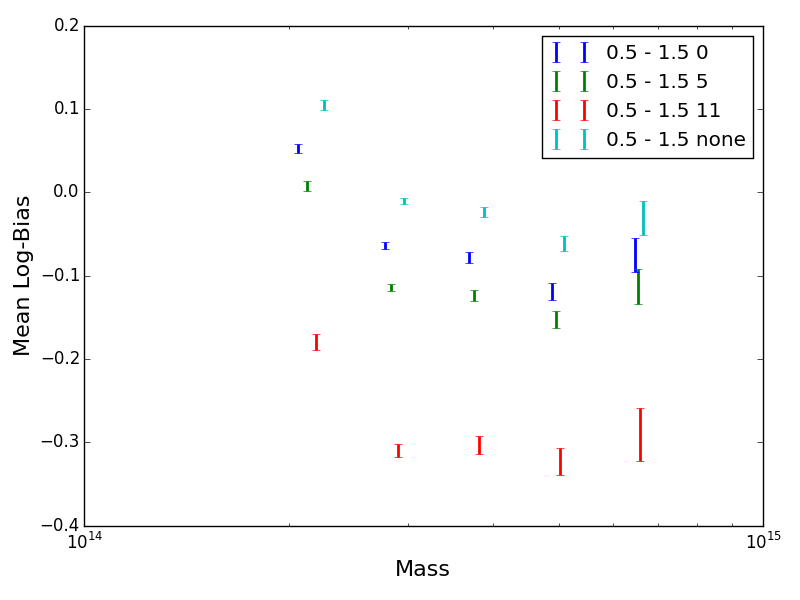
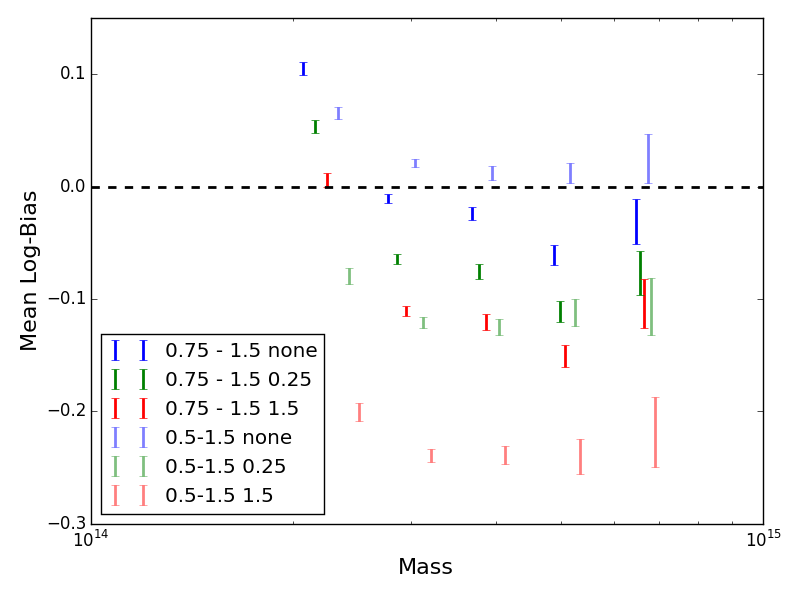
changes, exploring runs in place here

diff --git a/plotsimdistros.py b/plotsimdistros.py
@@ -16,6 +16,20 @@ def bootstrapMean(sample, nboots=1000):
     return bootedmeans
 
 
+############
+
+def bootstrapMedian(sample, nboots=1000):
+
+    nsamples = len(sample)
+
+    bootedmedians = np.zeros(nboots)
+    for i in range(nboots):
+        curboot = np.random.randint(0, nsamples, nsamples)
+        bootedmedians[i] = np.median(sample[curboot])
+
+    return bootedmedians
+
+
 
 
 #############
@@ -60,7 +74,7 @@ def createErrorbars(samples):
 #############
 
 
-def plotLogNormDistro(truemass, measuredmass, massedges, meanax, stdax, offset = 0., **plotargs):
+def plotLogNormDistro(truemass, measuredmass, massedges, meanax, nongaussax, stdax, offset = 0., **plotargs):
 
     log10massedges = np.log10(massedges)
 
@@ -71,6 +85,7 @@ def plotLogNormDistro(truemass, measuredmass, massedges, meanax, stdax, offset =
 
     centers = []
     means = []
+    nongausses = []
     stds = []
     
 
@@ -84,9 +99,13 @@ def plotLogNormDistro(truemass, measuredmass, massedges, meanax, stdax, offset =
 
         centers.append(10**(log10centers[i]))
 
+        if (inbin < 0).any():
+            print 'ILLEGAL'
+
         logratio = np.log(inbin)
 
         means.append(bootstrapMean(logratio))
+        nongausses.append(np.median(logratio) - np.mean(logratio))
         stds.append(bootstrapStd(logratio))
 
     centers = np.array(centers)
@@ -96,7 +115,9 @@ def plotLogNormDistro(truemass, measuredmass, massedges, meanax, stdax, offset =
     meancenter, meanerrs = createErrorbars(means)
     meanax.errorbar(centers + offset, meancenter, meanerrs, **plotargs)
 
-    print meancenter
+    print nongausses
+
+    nongaussax.plot(centers+offset, nongausses, marker='o', **plotargs)
 
 
     stdcenter, stderrs = createErrorbars(stds)
@@ -161,22 +182,27 @@ def plotNoiseMXXL():
 
     meansfig = pylab.figure()
     meansax = meansfig.add_subplot(1,1,1)
+    nongaussfig = pylab.figure()
+    nongaussax = nongaussfig.add_subplot(1,1,1)
     stdsfig = pylab.figure()
     stdsax = stdsfig.add_subplot(1,1,1)
 
     massedges = np.logspace(np.log10(2e14), np.log10(1e15), 7)
     
-    radialranges = [5,9]
+    radialranges = [8]
     radialnames = ['0.5 - 1.5', '0.75 - 2.5']
     noiseranges = ['0_0', '3_2', '4_3']
     noisenames = ['NoNoise', '20-0.33', '7-0.5']
-    offsets = np.linspace(-1.5e13, 1.5e13, 6)
+    offsets = np.linspace(-1.5e13, 1.5e13, 3)
+
+    colors = 'b g r'.split()
+    alphas = [1.0, 0.5]
 
 
     for i, radrange in enumerate(radialranges):
         for j, noiserange in enumerate(noiseranges):
 
-            consolfile = 'run7consolidated/mxxlsnap41.c4-r%d-n%s_corenone.pkl' % (radrange, noiserange)
+            consolfile = '../rundirs/run7consolidated/mxxlsnap41.c4-r%d-n%s_corenone.pkl' % (radrange, noiserange)
             print consolfile
 
             with open(consolfile, 'rb') as input:
@@ -189,11 +215,14 @@ def plotNoiseMXXL():
                                   consol['measured_m500s'],
                                   massedges,
                                   meansax,
+                                  nongaussax,
                                   stdsax,
                                   offset = offsets[3*i+j],
                                   label = '%s %s' % (radialnames[i], noisenames[j]),
                                   linestyle='None',
-                                  linewidth=2.)
+                                  linewidth=2.,
+                                  color = colors[j],
+                                  alpha = alphas[i])
 
     meansax.set_xscale('log')
     meansax.set_xlabel('Mass', fontsize=16)
@@ -203,6 +232,16 @@ def plotNoiseMXXL():
     meansfig.tight_layout()
     meansfig.savefig('noisemxxl_mean.png')
 
+    nongaussax.set_xscale('log')
+    nongaussax.set_xlabel('Mass', fontsize=16)
+    nongaussax.set_ylabel('Median - Mean', fontsize=16)
+    nongaussax.axhline(0.0, c='k', linewidth=2, linestyle='--')
+    nongaussax.legend(loc='upper left')
+    nongaussfig.canvas.draw()
+    nongaussfig.tight_layout()
+    nongaussfig.savefig('noisemxxl_nongauss.png')
+
+
     stdsax.set_xscale('log')
     stdsax.set_xlabel('Mass', fontsize=16)
     stdsax.set_ylabel('Standard Deviation Log-Bias', fontsize=16)
@@ -211,7 +250,7 @@ def plotNoiseMXXL():
     stdsfig.tight_layout()
     stdsfig.savefig('noisemxxl_std.png')
 
-    return meansfig, stdsfig
+    return meansfig, nongaussfig, stdsfig
 
 
 
@@ -222,21 +261,27 @@ def plotCoreMXXL():
 
     meansfig = pylab.figure()
     meansax = meansfig.add_subplot(1,1,1)
+    nongaussfig = pylab.figure()
+    nongaussax = nongaussfig.add_subplot(1,1,1)
     stdsfig = pylab.figure()
     stdsax = stdsfig.add_subplot(1,1,1)
 
     massedges = np.logspace(np.log10(2e14), np.log10(1e15), 7)
     
-    radialranges = [9]
-    radialnames = ['0.75 - 2.5']
-    coreranges = ['0', '5', '11', 'none']
-    offsets = np.linspace(-2.2e13, 2.2e13, 8)
+    radialranges = [8, 5]
+    radialnames = ['0.75 - 1.5', '0.5-1.5']
+    coreranges = ['none', '0', '5']
+    corenames = ['none', '0.25', '1.5']
+    offsets = np.linspace(-2.2e13, 2.2e13, 6)
+
+    colors = ['b', 'g', 'r']
+    alphas = [1.0, 0.5]
 
 
     for i, radrange in enumerate(radialranges):
         for j, corerange in enumerate(coreranges):
 
-            consolfile = 'run7consolidated/mxxlsnap41.c4-r%d-n0_0_core%s.pkl' % (radrange, corerange)
+            consolfile = '../rundirs/run7consolidated/mxxlsnap41.c4-r%d-n4_3_core%s.pkl' % (radrange, corerange)
             print consolfile
 
             with open(consolfile, 'rb') as input:
@@ -249,11 +294,179 @@ def plotCoreMXXL():
                                   consol['measured_m500s'],
                                   massedges,
                                   meansax,
+                                  nongaussax,
                                   stdsax,
-                                  offset = offsets[4*i+j],
-                                  label = '%s %s' % (radialnames[i], corerange),
+                                  offset = offsets[3*i+j],
+                                  label = '%s %s' % (radialnames[i], corenames[j]),
                                   linestyle='None',
-                                  linewidth=2.)
+                                  linewidth=2.,
+                                  color=colors[j],
+                                  alpha = alphas[i])
+
+    meansax.set_xscale('log')
+    meansax.set_xlabel('Mass', fontsize=16)
+    meansax.set_ylabel('Mean Log-Bias', fontsize=16)
+    meansax.axhline(0.0, c='k', linewidth=2, linestyle='--')
+    meansax.legend(loc='lower left')
+    meansfig.canvas.draw()
+    meansfig.tight_layout()
+    meansfig.savefig('coremxxl_mean.png')
+
+    nongaussax.set_xscale('log')
+    nongaussax.set_xlabel('Mass', fontsize=16)
+    nongaussax.set_ylabel('Median - Mean', fontsize=16)
+    nongaussax.axhline(0.0, c='k', linewidth=2, linestyle='--')
+    nongaussax.legend(loc='upper left')
+    nongaussfig.canvas.draw()
+    nongaussfig.tight_layout()
+    nongaussfig.savefig('coremxxl_nongauss.png')
+
+
+
+    stdsax.set_xscale('log')
+    stdsax.set_xlabel('Mass', fontsize=16)
+    stdsax.set_ylabel('Standard Deviation Log-Bias', fontsize=16)
+    stdsax.set_ybound(0.15, 0.32)
+    stdsax.legend(loc='lower left')
+    stdsfig.canvas.draw()
+    stdsfig.tight_layout()
+    stdsfig.savefig('coremxxl_std.png')
+
+
+    return meansfig, nongaussfig, stdsfig
+
+
+#######################################
+
+
+def plotCoreBK11():
+
+    meansfig = pylab.figure()
+    meansax = meansfig.add_subplot(1,1,1)
+    nongaussfig = pylab.figure()
+    nongaussax = nongaussfig.add_subplot(1,1,1)
+    stdsfig = pylab.figure()
+    stdsax = stdsfig.add_subplot(1,1,1)
+
+    massedges = np.logspace(np.log10(1e14), np.log10(1e15), 6)
+    
+    radialranges = [9,6 ]
+    radialnames = ['0.75 - 2.5', '0.5 - 2.5']
+    coreranges = ['none', '0', '5']
+    corenames = ['none', '0.25', '1.5']
+    offsets = np.linspace(-2.2e13, 2.2e13, 6)
+
+    colors = ['b', 'g', 'r']
+    alphas = [1.0, 0.5]
+
+
+    for i, radrange in enumerate(radialranges):
+        for j, corerange in enumerate(coreranges):
+
+            consolfile = '../rundirs/run7consolidated/bk11snap141..c4-r%d-n4_3_core%s.pkl' % (radrange, corerange)
+            print consolfile
+
+            with open(consolfile, 'rb') as input:
+
+                consol = cPickle.load(input)
+
+                
+
+                plotLogNormDistro(consol['true_m500s'], 
+                                  consol['measured_m500s'],
+                                  massedges,
+                                  meansax,
+                                  nongaussax,
+                                  stdsax,
+                                  offset = offsets[3*i+j],
+                                  label = '%s %s' % (radialnames[i], corenames[j]),
+                                  linestyle='None',
+                                  linewidth=2.,
+                                  color=colors[j],
+                                  alpha = alphas[i])
+
+    meansax.set_xscale('log')
+    meansax.set_xlabel('Mass', fontsize=16)
+    meansax.set_ylabel('Mean Log-Bias', fontsize=16)
+    meansax.axhline(0.0, c='k', linewidth=2, linestyle='--')
+    meansax.legend(loc='upper right')
+    meansfig.canvas.draw()
+    meansfig.tight_layout()
+    meansfig.savefig('corebk11_mean.png')
+
+    nongaussax.set_xscale('log')
+    nongaussax.set_xlabel('Mass', fontsize=16)
+    nongaussax.set_ylabel('Median - Mean', fontsize=16)
+    nongaussax.axhline(0.0, c='k', linewidth=2, linestyle='--')
+    nongaussax.legend(loc='upper left')
+    nongaussfig.canvas.draw()
+    nongaussfig.tight_layout()
+    nongaussfig.savefig('corebk11_nongauss.png')
+
+
+
+    stdsax.set_xscale('log')
+    stdsax.set_xlabel('Mass', fontsize=16)
+    stdsax.set_ylabel('Standard Deviation Log-Bias', fontsize=16)
+    stdsax.set_ybound(0.15, 0.32)
+    stdsax.legend(loc='upper right')
+    stdsfig.canvas.draw()
+    stdsfig.tight_layout()
+    stdsfig.savefig('corebk11_std.png')
+
+
+    return meansfig, nongaussfig, stdsfig
+
+
+#######################################
+
+    
+    
+def plotNoiseBK11():
+
+    meansfig = pylab.figure()
+    meansax = meansfig.add_subplot(1,1,1)
+    nongaussfig = pylab.figure()
+    nongaussax = nongaussfig.add_subplot(1,1,1)
+    stdsfig = pylab.figure()
+    stdsax = stdsfig.add_subplot(1,1,1)
+
+    massedges = np.logspace(np.log10(1e14), np.log10(1e15), 6)
+    
+    radialranges = [8]
+    radialnames = ['0.75 - 1.5']
+    noiseranges = ['0_0', '3_2', '4_3']
+    noisenames = ['NoNoise', '20-0.33', '7-0.5']
+    offsets = np.linspace(-1.5e13, 1.5e13, 3)
+
+    colors = 'b g r'.split()
+    alphas = [1.0, 0.5]
+
+
+    for i, radrange in enumerate(radialranges):
+        for j, noiserange in enumerate(noiseranges):
+
+            consolfile = '../rundirs/run7consolidated/bk11snap141..c4-r%d-n%s_corenone.pkl' % (radrange, noiserange)
+            print consolfile
+
+            with open(consolfile, 'rb') as input:
+
+                consol = cPickle.load(input)
+
+                
+
+                plotLogNormDistro(consol['true_m500s'], 
+                                  consol['measured_m500s'],
+                                  massedges,
+                                  meansax,
+                                  nongaussax,
+                                  stdsax,
+                                  offset = offsets[3*i+j],
+                                  label = '%s %s' % (radialnames[i], noisenames[j]),
+                                  linestyle='None',
+                                  linewidth=2.,
+                                  color = colors[j],
+                                  alpha = alphas[i])
 
     meansax.set_xscale('log')
     meansax.set_xlabel('Mass', fontsize=16)
@@ -261,7 +474,17 @@ def plotCoreMXXL():
     meansax.legend()
     meansfig.canvas.draw()
     meansfig.tight_layout()
-    meansfig.savefig('coremxxl_mean_r9.png')
+    meansfig.savefig('noisebk11_mean.png')
+
+    nongaussax.set_xscale('log')
+    nongaussax.set_xlabel('Mass', fontsize=16)
+    nongaussax.set_ylabel('Median - Mean', fontsize=16)
+    nongaussax.axhline(0.0, c='k', linewidth=2, linestyle='--')
+    nongaussax.legend(loc='upper left')
+    nongaussfig.canvas.draw()
+    nongaussfig.tight_layout()
+    nongaussfig.savefig('noisebk11_nongauss.png')
+
 
     stdsax.set_xscale('log')
     stdsax.set_xlabel('Mass', fontsize=16)
@@ -269,12 +492,13 @@ def plotCoreMXXL():
     stdsax.legend()
     stdsfig.canvas.draw()
     stdsfig.tight_layout()
-    stdsfig.savefig('coremxxl_std_r9.png')
+    stdsfig.savefig('noisebk11_std.png')
 
-    return meansfig, stdsfig
+    return meansfig, nongaussfig, stdsfig
 
-    
-    
+
+
+############################
         
 
     

diff --git a/notes.tex b/notes.tex
@@ -968,6 +968,8 @@ At least for the 0.75 - 2.5 fit range and at low masses, the noise level does ap
 
 
 
+The bias in m200 is flat with mass. The bias in m500 turns positive at low masses. Why??? 
+
 
 
 
